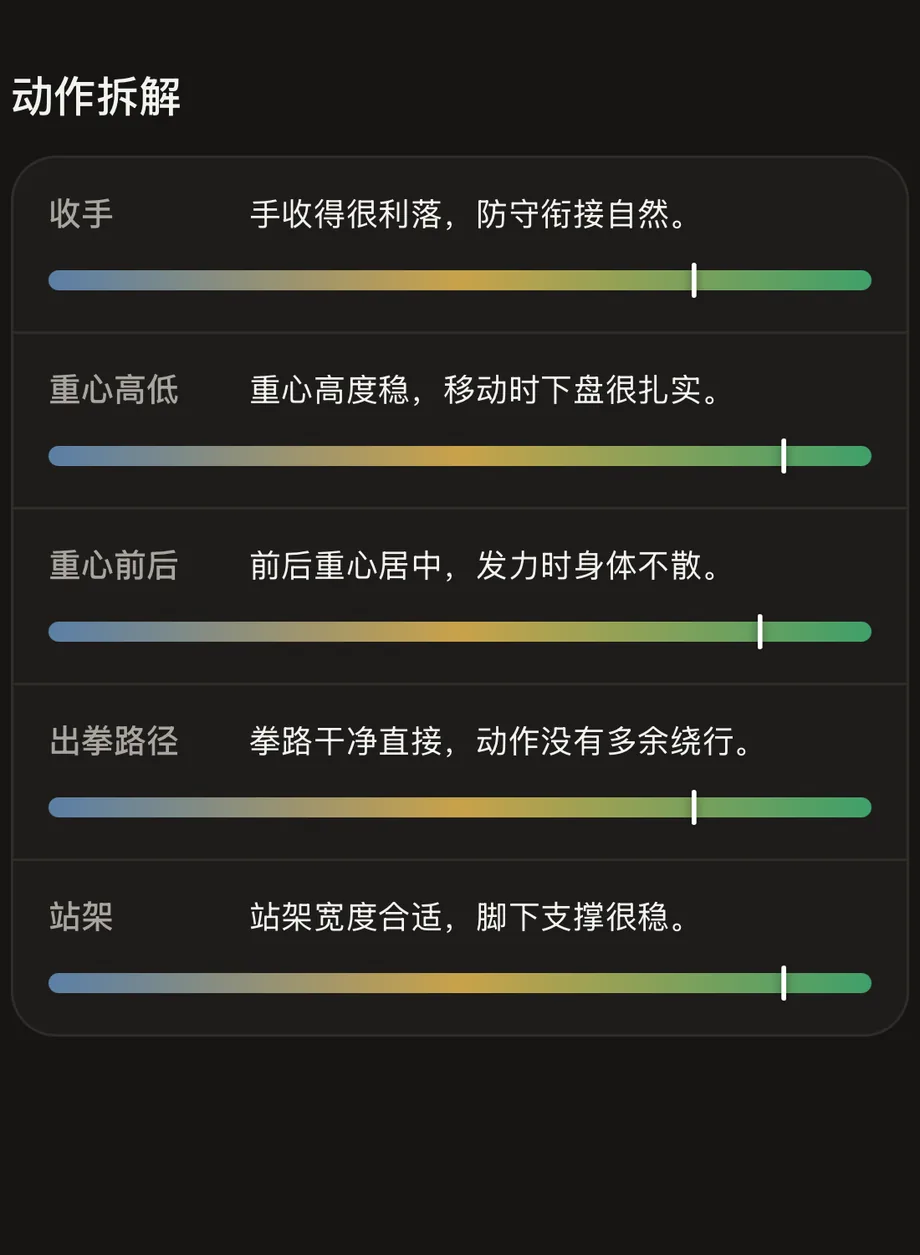
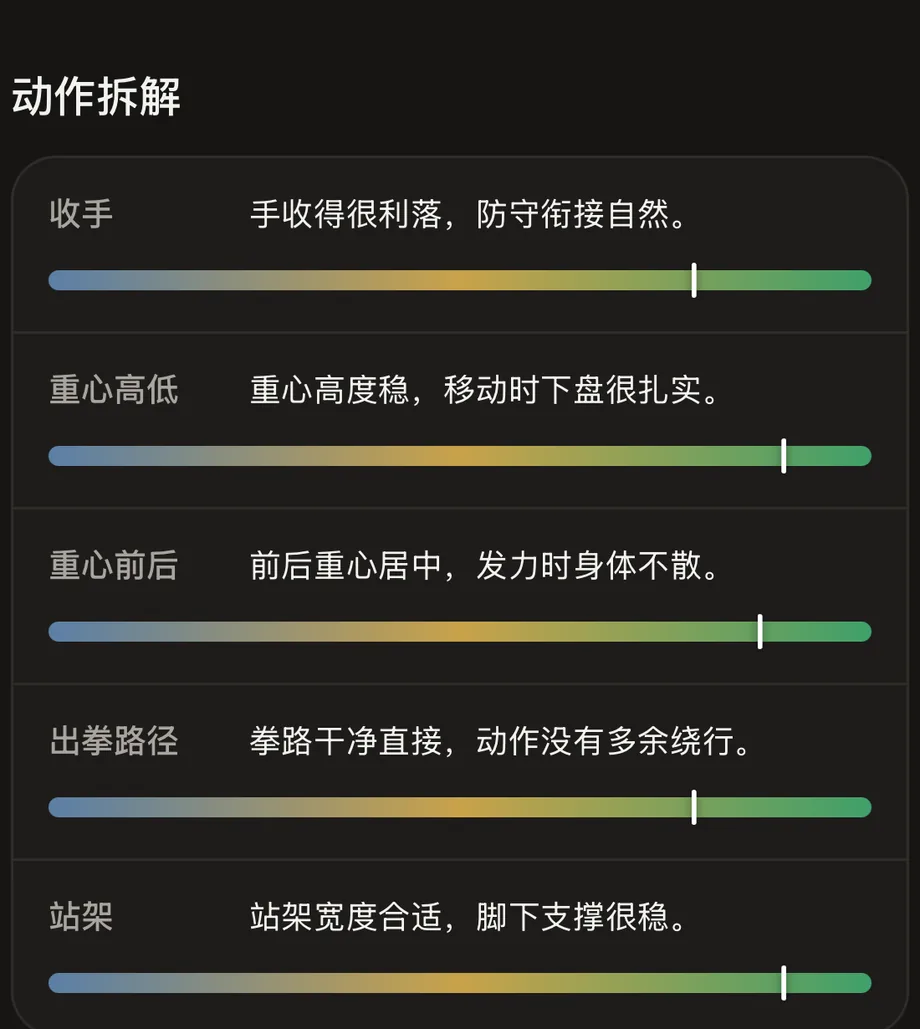
Finalize terms wording; crop blank area from Chinese report shots

diff --git a/zh/index.html b/zh/index.html
@@ -65,7 +65,7 @@
     <video class="hero-video" autoplay muted loop playsinline poster="/assets/img/hero-poster.webp" aria-label="拳击训练画面，身上叠加了 AI 姿态追踪线条">
       <source src="/assets/video/hero.mp4" type="video/mp4">
     </video>
-    <img class="hero-report" src="/assets/img/report-zh-1.webp" width="920" height="1255" alt="拳有测评报告：收手、重心高低、重心前后、出拳路径、站架宽度，每项一句点评和一根色条">
+    <img class="hero-report" src="/assets/img/report-zh-1.webp" width="920" height="1029" alt="拳有测评报告：收手、重心高低、重心前后、出拳路径、站架宽度，每项一句点评和一根色条">
   </div>
 </section>
 
@@ -87,7 +87,7 @@
 </section>
 
 <section id="plan" class="wrap section split">
-  <img class="shot" src="/assets/img/report-zh-2.webp" width="920" height="1255" loading="lazy" alt="一份测评报告，每项带点评，例如收手顺畅、再收紧一点能让连击更连贯">
+  <img class="shot" src="/assets/img/report-zh-2.webp" width="920" height="1029" loading="lazy" alt="一份测评报告，每项带点评，例如收手顺畅、再收紧一点能让连击更连贯">
   <div class="split-copy">
     <div class="eyebrow">从测评到训练</div>
     <h2 class="display">测完就知道练什么</h2>

diff --git a/terms/index.html b/terms/index.html
@@ -140,7 +140,7 @@
   <p class="meta">2026 年 10 月 11 日生效 · 最后更新 2026 年 10 月 11 日</p>
 </header>
 
-<p>拳有（BoxMate）是一款 iOS 拳击训练 App。你拍一段自己的短视频，App 的 AI 评估你的技术，再据此生成训练课，并提供教练课程。本条款是你与拳有的开发者 Tank Wu 之间关于使用本 App 的约定。注册账号或使用本 App，即表示你同意本条款；如不同意，请不要使用。</p>
+<p>拳有（BoxMate）是一款 iOS 拳击训练 App。你拍一段自己的短视频，App 的 AI 评估你的技术，再据此排训练计划，并提供教练课程。本条款是你与拳有的开发者 Tank Wu 之间关于使用本 App 的约定。注册账号或使用本 App，即表示你同意本条款；如不同意，请不要使用。</p>
 
 <div class="key">
   <p><strong>先说要紧的。</strong></p>
